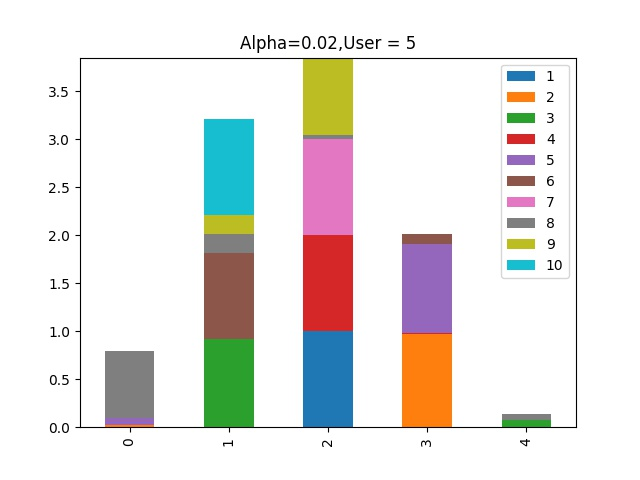
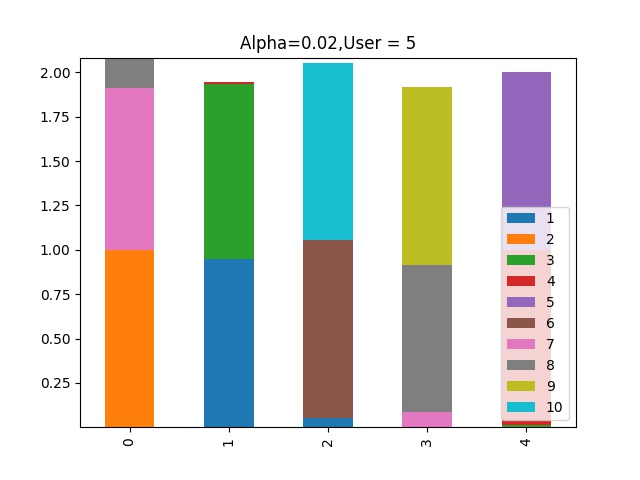
Added Readme and Added Robust Learning Rate

diff --git a/fl_train.py b/fl_train.py
@@ -32,10 +32,9 @@ def weighted_average_weights(w, dataset_proportions):
 
 
 def ratio_of_sign(w_global, w_local):
-    w_global_copy = copy.deepcopy(w_global)
-    w_local_copy = copy.deepcopy(w_local)
-    sign = {}
-    sign_total = 0
+    w_global_copy , w_local_copy = \
+        copy.deepcopy(w_global) , copy.deepcopy(w_local)
+    sign , sign_total= {} , 0
     for key in w_global_copy.keys():
         delta = torch.add(w_local_copy[key], -w_global_copy[key])
         delta = torch.flatten(delta)
@@ -48,6 +47,10 @@ def ratio_of_sign(w_global, w_local):
                     sign[key] -= 1
                     sign_total -= 1
     sign['total'] = sign_total
+    # if abs(sign['total']) < 5:
+    #     for key in w_global_copy.keys():
+    #         delta = torch.add(w_local_copy[key], -w_global_copy[key])
+    #         w_local[key] = torch.add(w_global_copy[key], delta)
     return sign
 
 def prevent_param_cancellation():
@@ -96,13 +99,8 @@ def plot_acc_loss(acc_loss_dict, user_num, alpha):
     plt.close()
 
 
-def train(alpha, user_num, global_rounds, local_epoches, batch_size, log = True):
+def train(spliter, alpha, user_num, global_rounds, local_epoches, batch_size, log = True):
     avg_global_test_acc , avg_global_test_loss = 0 , 0
-
-    spliter = DatasetSplitByDirichletPartition(file_path=config.data_path,
-                                               alpha=alpha,
-                                               user_num=user_num,
-                                               train_ratio=.7)
     dataset_dict = spliter.get_dataset_dict()
     label_partition_dict = spliter.get_label_partition_dict()
     dataset_size = spliter.get_complete_dataset_size()
@@ -129,18 +127,34 @@ def train(alpha, user_num, global_rounds, local_epoches, batch_size, log = True)
             local_losses.append(loss)
 
         initial_global_weight = global_model.state_dict()
+        user_index_sign_dict = {}
         i = 0
         for local_weight in local_weights:
             sign = \
                 ratio_of_sign(w_global=initial_global_weight,
                           w_local=local_weight)
+            user_index_sign_dict[i]=sign
             print( "Sign Number of User ", i, " : ", sign )
             i+=1
-        # global_weight = average_weights(local_weights)
-        global_weight = weighted_average_weights(local_weights, dataset_proportions)
+
+        model_params_num = sum(p.numel() for p in global_model.parameters()
+                               if p.requires_grad)
+        # threshold = int(model_params_num * 0.05)
+        threshold = 30
+        print("Sign Number's Threshold : ", threshold)
+        new_local_weights = []
+        new_dataset_proportions = []
+        for user_index, sign_dict in user_index_sign_dict.items():
+            if abs(sign_dict['total']) > threshold :
+                new_local_weights.append(local_weights[user_index])
+                new_dataset_proportions.append(dataset_proportions[user_index])
+
+        if len(new_local_weights) != 0:
+            global_weight = weighted_average_weights(new_local_weights, new_dataset_proportions)
+        else:
+            global_weight = initial_global_weight
+
         global_model.load_state_dict(global_weight)
-
-
 
         test_acc, test_loss, test_per_class_acc = 0 , 0 , []
 
@@ -181,9 +195,23 @@ def train(alpha, user_num, global_rounds, local_epoches, batch_size, log = True)
                     alpha=alpha)
 
 if __name__ == '__main__':
-    train(  alpha = 0.02,
-            user_num = 5,
-            global_rounds = 30,
-            local_epoches = 5,
-            batch_size = 64,
+    alpha = 0.02
+    user_num = 5
+    global_rounds = 30
+    local_epoches = 5
+    batch_size = 64
+
+    spliter = \
+    DatasetSplitByDirichletPartition(file_path=config.data_path,
+                                       alpha=alpha,
+                                       user_num=user_num,
+                                       train_ratio=.7)
+
+    train(
+            spliter = spliter,
+            alpha = alpha,
+            user_num = user_num,
+            global_rounds = global_rounds,
+            local_epoches = local_epoches,
+            batch_size = batch_size,
             log=True)

diff --git a/trainer/trainer.py b/trainer/trainer.py
@@ -59,7 +59,8 @@ def inference(dataset, model, batch_size, log=True):
 
     dataloader = torch.utils.data.DataLoader(dataset, batch_size=batch_size, shuffle=True)
     loss_func = nn.CrossEntropyLoss()
-    model.train()
+    # model.train()
+    model.eval()
     optimizer = torch.optim.Adam(model.parameters(), lr=0.001)
     test_preds, test_ground_truth = np.asarray([]), np.asarray([])
 
@@ -68,8 +69,8 @@ def inference(dataset, model, batch_size, log=True):
         outputs = model(inputs)
         loss = loss_func(outputs, labels)
 
-        loss.backward()
-        optimizer.step()
+        # loss.backward()
+        # optimizer.step()
         _, preds = torch.max(outputs, 1)
         _, ground_truth = torch.max(labels, 1)
         running_loss += loss.item() * inputs.size(0)

diff --git a/data/non_iid_data/generate_non_iid_data.py b/data/non_iid_data/generate_non_iid_data.py
@@ -10,8 +10,9 @@ if __name__ == '__main__':
                                                user_num=user_num,
                                                train_ratio=.7)
     dataset_dict = spliter.get_dataset_dict()
-    proportions = spliter.get_train_dataset_proportions()
     label_partition_dict = spliter.get_label_partition_dict()
+    dataset_size = spliter.get_complete_dataset_size()
+    dataset_proportions = spliter.get_train_dataset_proportions()
 
     spliter.save_users_df_as_csv(path="./")
     plot_partitions(user_num=user_num,

diff --git a/Readme.md b/Readme.md
@@ -1,0 +1,1 @@
+To run the repo:
